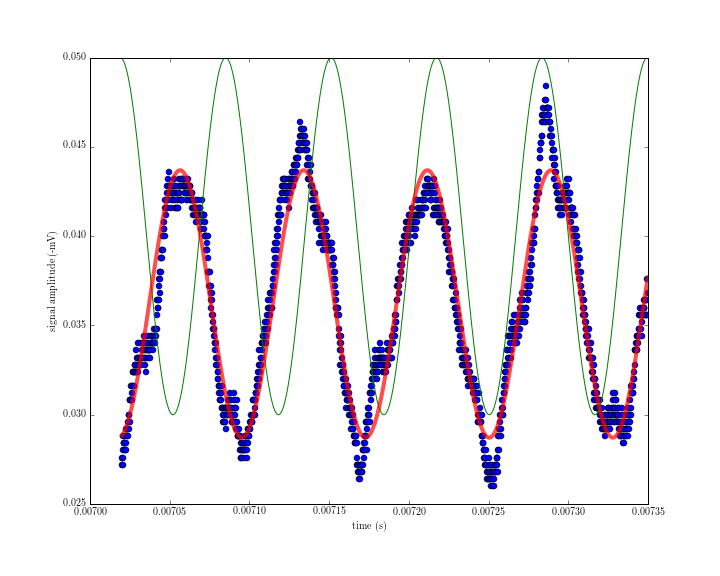
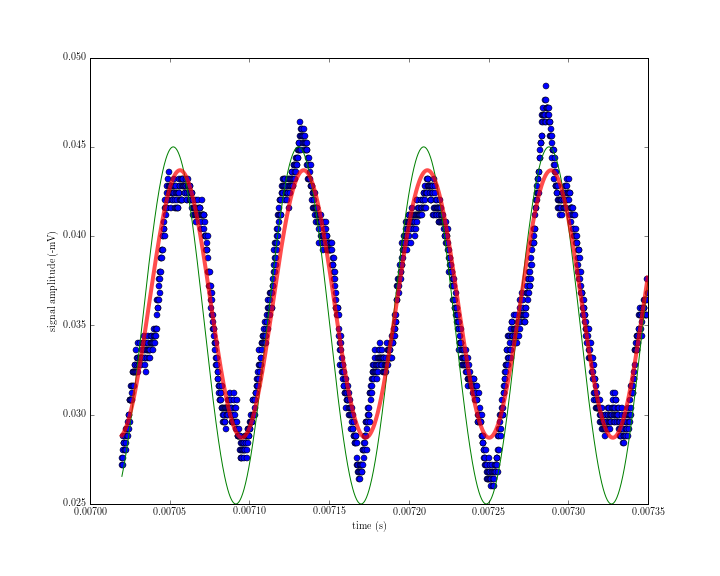
fits working, just need to add a clause that saves parameters to a file

diff --git a/Optical_Pumping/data_processing.py b/Optical_Pumping/data_processing.py
@@ -25,7 +25,7 @@ def larmor_fit(dataset):
     def sin_function(x, A, w, d, c):
         return A*np.sin(w*x + d) + c
 
-    p = [.01, 120e3, 22*np.pi/24, .045]
+    p = [.01, 80e3, 22*np.pi/24, .035]
 
     popt, pcov = curve_fit(sin_function, sel_xdata, sel_ydata, p0 = p)
 
@@ -44,6 +44,8 @@ def larmor_fit(dataset):
     plt.ylabel("signal amplitude (-mV)")
     plt.savefig("plots/(%s.%s).png" % (dset[0].split("/")[1], dset[1]))
 
+    # save the fit parameters into a file to plot/fit
+
 
 if __name__ == '__main__':
-    larmor_fit("data/larmor_y0.045A.tsv")
+    larmor_fit("data/larmor_y0.020A.tsv")
